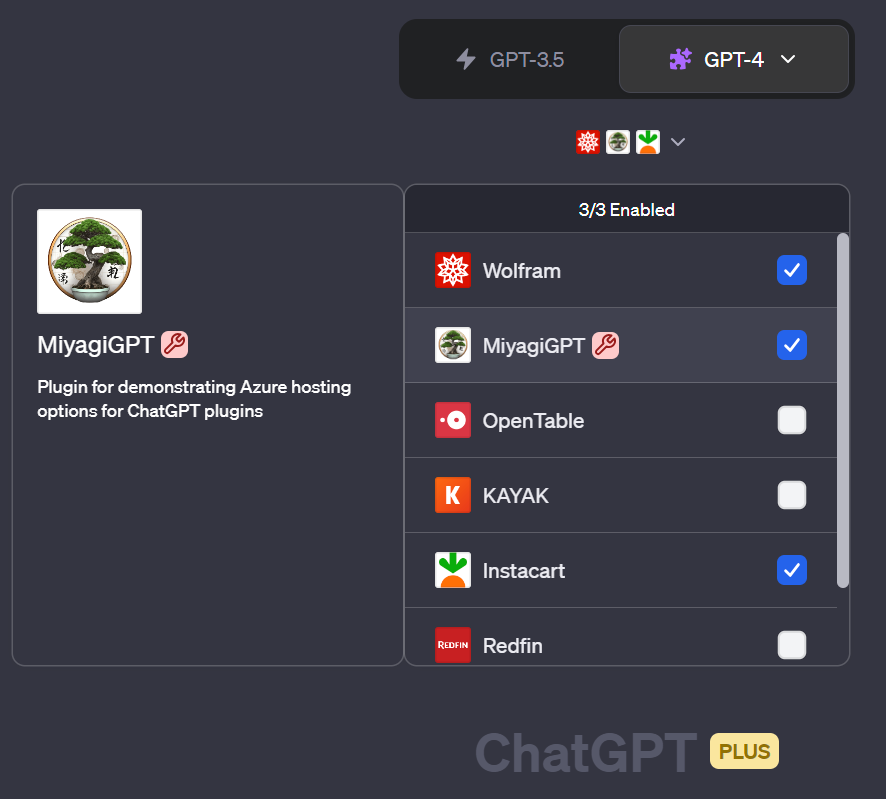
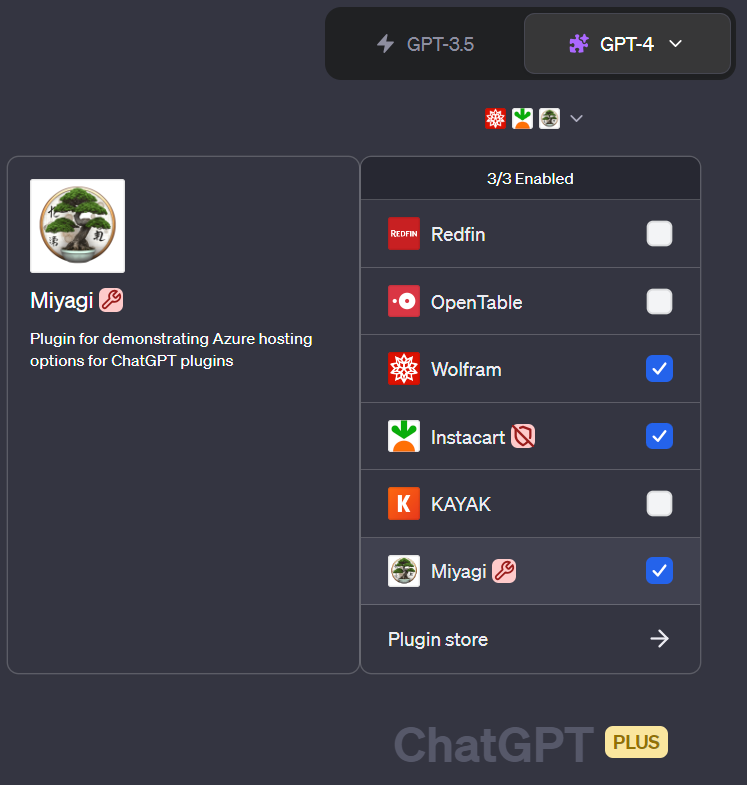
update plugin interaction

diff --git a/python/chatgpt-plugin-miyagi/README.md b/python/chatgpt-plugin-miyagi/README.md
@@ -22,3 +22,15 @@ user authentication and will be able to answer questions about the user's portfo
     poetry install && poetry run dev 
     ```
 1. Install the plugin from [Bing](https://bing.com) or [ai.com](https://ai.com).
+
+#### ChatGPT
+
+1. Go to [ai.com](https://ai.com) and from New Chat, under GPT-4, select Plugins
+1. From the Plugin store dialog, Click on `Develop your own plugin`
+1. Under Domain, enter `http://localhost:8000` and click on `Find Manifest`
+![find-manifest](../../assets/images/plugins/find-manifest.png)
+1. Install localhost plugin
+![install-plugin](../../assets/images/plugins/install-plugin.png)
+1. Select plugin and interact
+![plugin](../../assets/images/plugin.png)
+![interact](../../assets/images/plugins/interact.png)
